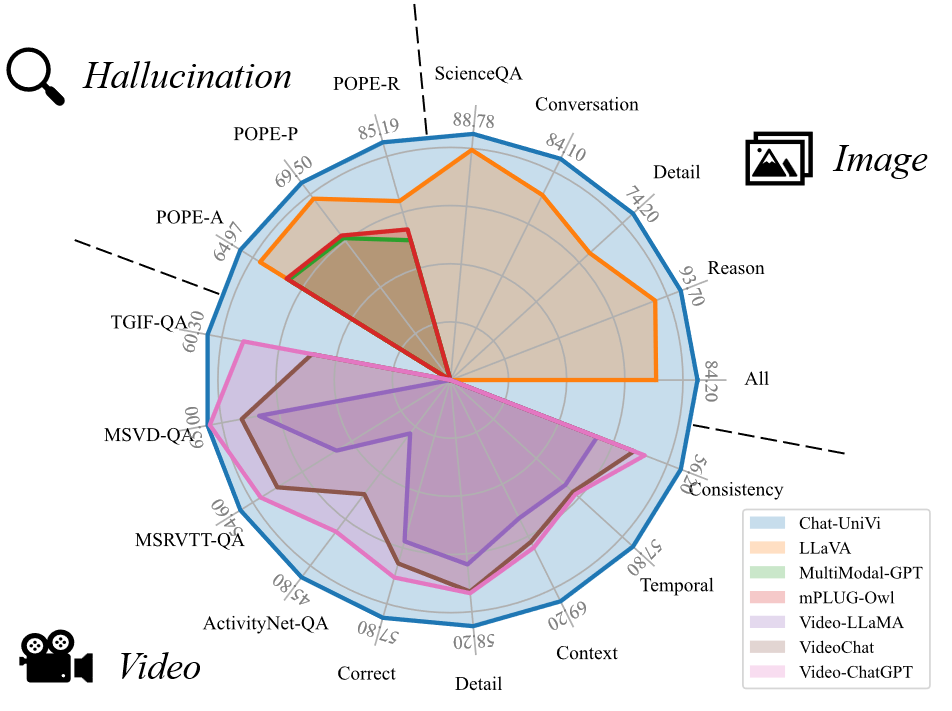
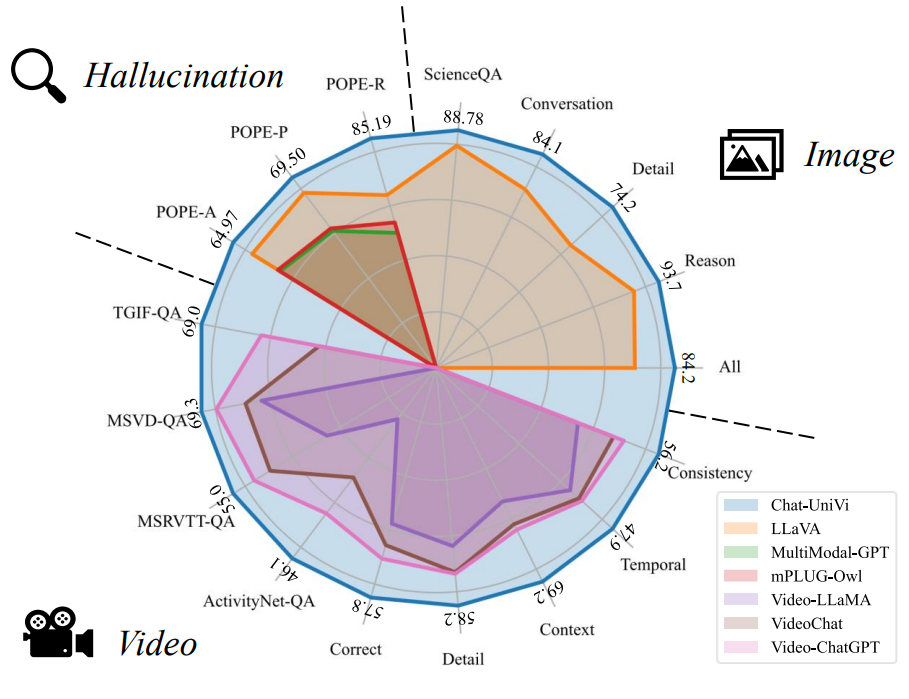
update

diff --git a/TRAIN_AND_VALIDATE.md b/TRAIN_AND_VALIDATE.md
@@ -152,21 +152,28 @@ It is worth noting that the results span a range from 0 to 5.
 To standardize the metrics, we normalized all scores to a scale of 0 to 100 in the paper.
 
 #### Step 1: Load the model to generate results
-```
+```CUDA_VISIBLE_DEVICES=0,1,2,3 \
+python ChatUniVi/eval/model_video_general.py \
+--model-path ${model path} \
+--question-file ChatUniVi/eval/questions/video_qa/generic_qa.json \
+--video-folder ${video folder} \
+--answers-file results/answer-video-generic.jsonl
+
+
+CUDA_VISIBLE_DEVICES=0,1,2,3 \
+python ChatUniVi/eval/model_video_general.py \
+--model-path ${model path} \
+--question-file ChatUniVi/eval/questions/video_qa/temporal_qa.json \
+--video-folder ${video folder} \
+--answers-file results/answer-video-temporal.jsonl
+
+
 CUDA_VISIBLE_DEVICES=0,1,2,3 \
 python ChatUniVi/eval/model_video_consistency.py \
 --model-path ${model path} \
 --question-file ChatUniVi/eval/questions/video_qa/consistency_qa.json \
 --video-folder ${video folder} \
 --answers-file results/answer-video-consistency.jsonl
-
-
-CUDA_VISIBLE_DEVICES=0,1,2,3 \
-python ChatUniVi/eval/model_video_general.py \
---model-path ${model path} \
---question-file ChatUniVi/eval/questions/video_qa/generic_qa.json \
---video-folder ${video folder} \
---answers-file results/answer-video-generic.jsonl
 ```
 
 
@@ -198,7 +205,7 @@ python ChatUniVi/eval/evaluate/evaluate_benchmark_3_context.py \
 
 # Temporal Understanding
 python ChatUniVi/eval/evaluate/evaluate_benchmark_4_temporal.py \
---pred_path results/answer-video-generic.jsonl \
+--pred_path results/answer-video-temporal.jsonl \
 --output_dir results/temporal \
 --output_json results/review-video-temporal.jsonl \
 --api_key [openai api key] \
@@ -303,6 +310,15 @@ python ChatUniVi/eval/model_video_qa.py \
 --answers-list ChatUniVi/eval/questions/video_qa/msvd_a_list.json \
 --answers-file results/answer-msvd-qa.jsonl
 
+# TGIF QA
+CUDA_VISIBLE_DEVICES=0,1,2,3 \
+python ChatUniVi/eval/model_video_qa.py \
+--model-path ${model path} \
+--question-file ChatUniVi/eval/questions/video_qa/tgif_qa.json \
+--video-folder ${video folder} \
+--answers-list ChatUniVi/eval/questions/video_qa/tgif_a_list.json \
+--answers-file results/answer-tgif-qa.jsonl
+
 # ActivityNet QA
 CUDA_VISIBLE_DEVICES=0,1,2,3 \
 python ChatUniVi/eval/model_video_qa.py \
@@ -328,6 +344,14 @@ python ChatUniVi/eval/evaluate/evaluate_video_qa.py \
 --pred_path results/answer-msvd-qa.jsonl \
 --output_dir results/msvd-qa \
 --output_json results/review-msvd-qa.jsonl \
+--api_key [openai api key] \
+--num_tasks 1
+
+# TGIF QA
+python ChatUniVi/eval/evaluate/evaluate_video_qa.py \
+--pred_path results/answer-tgif-qa.jsonl \
+--output_dir results/tgif-qa \
+--output_json results/review-tgif-qa.jsonl \
 --api_key [openai api key] \
 --num_tasks 1
 
